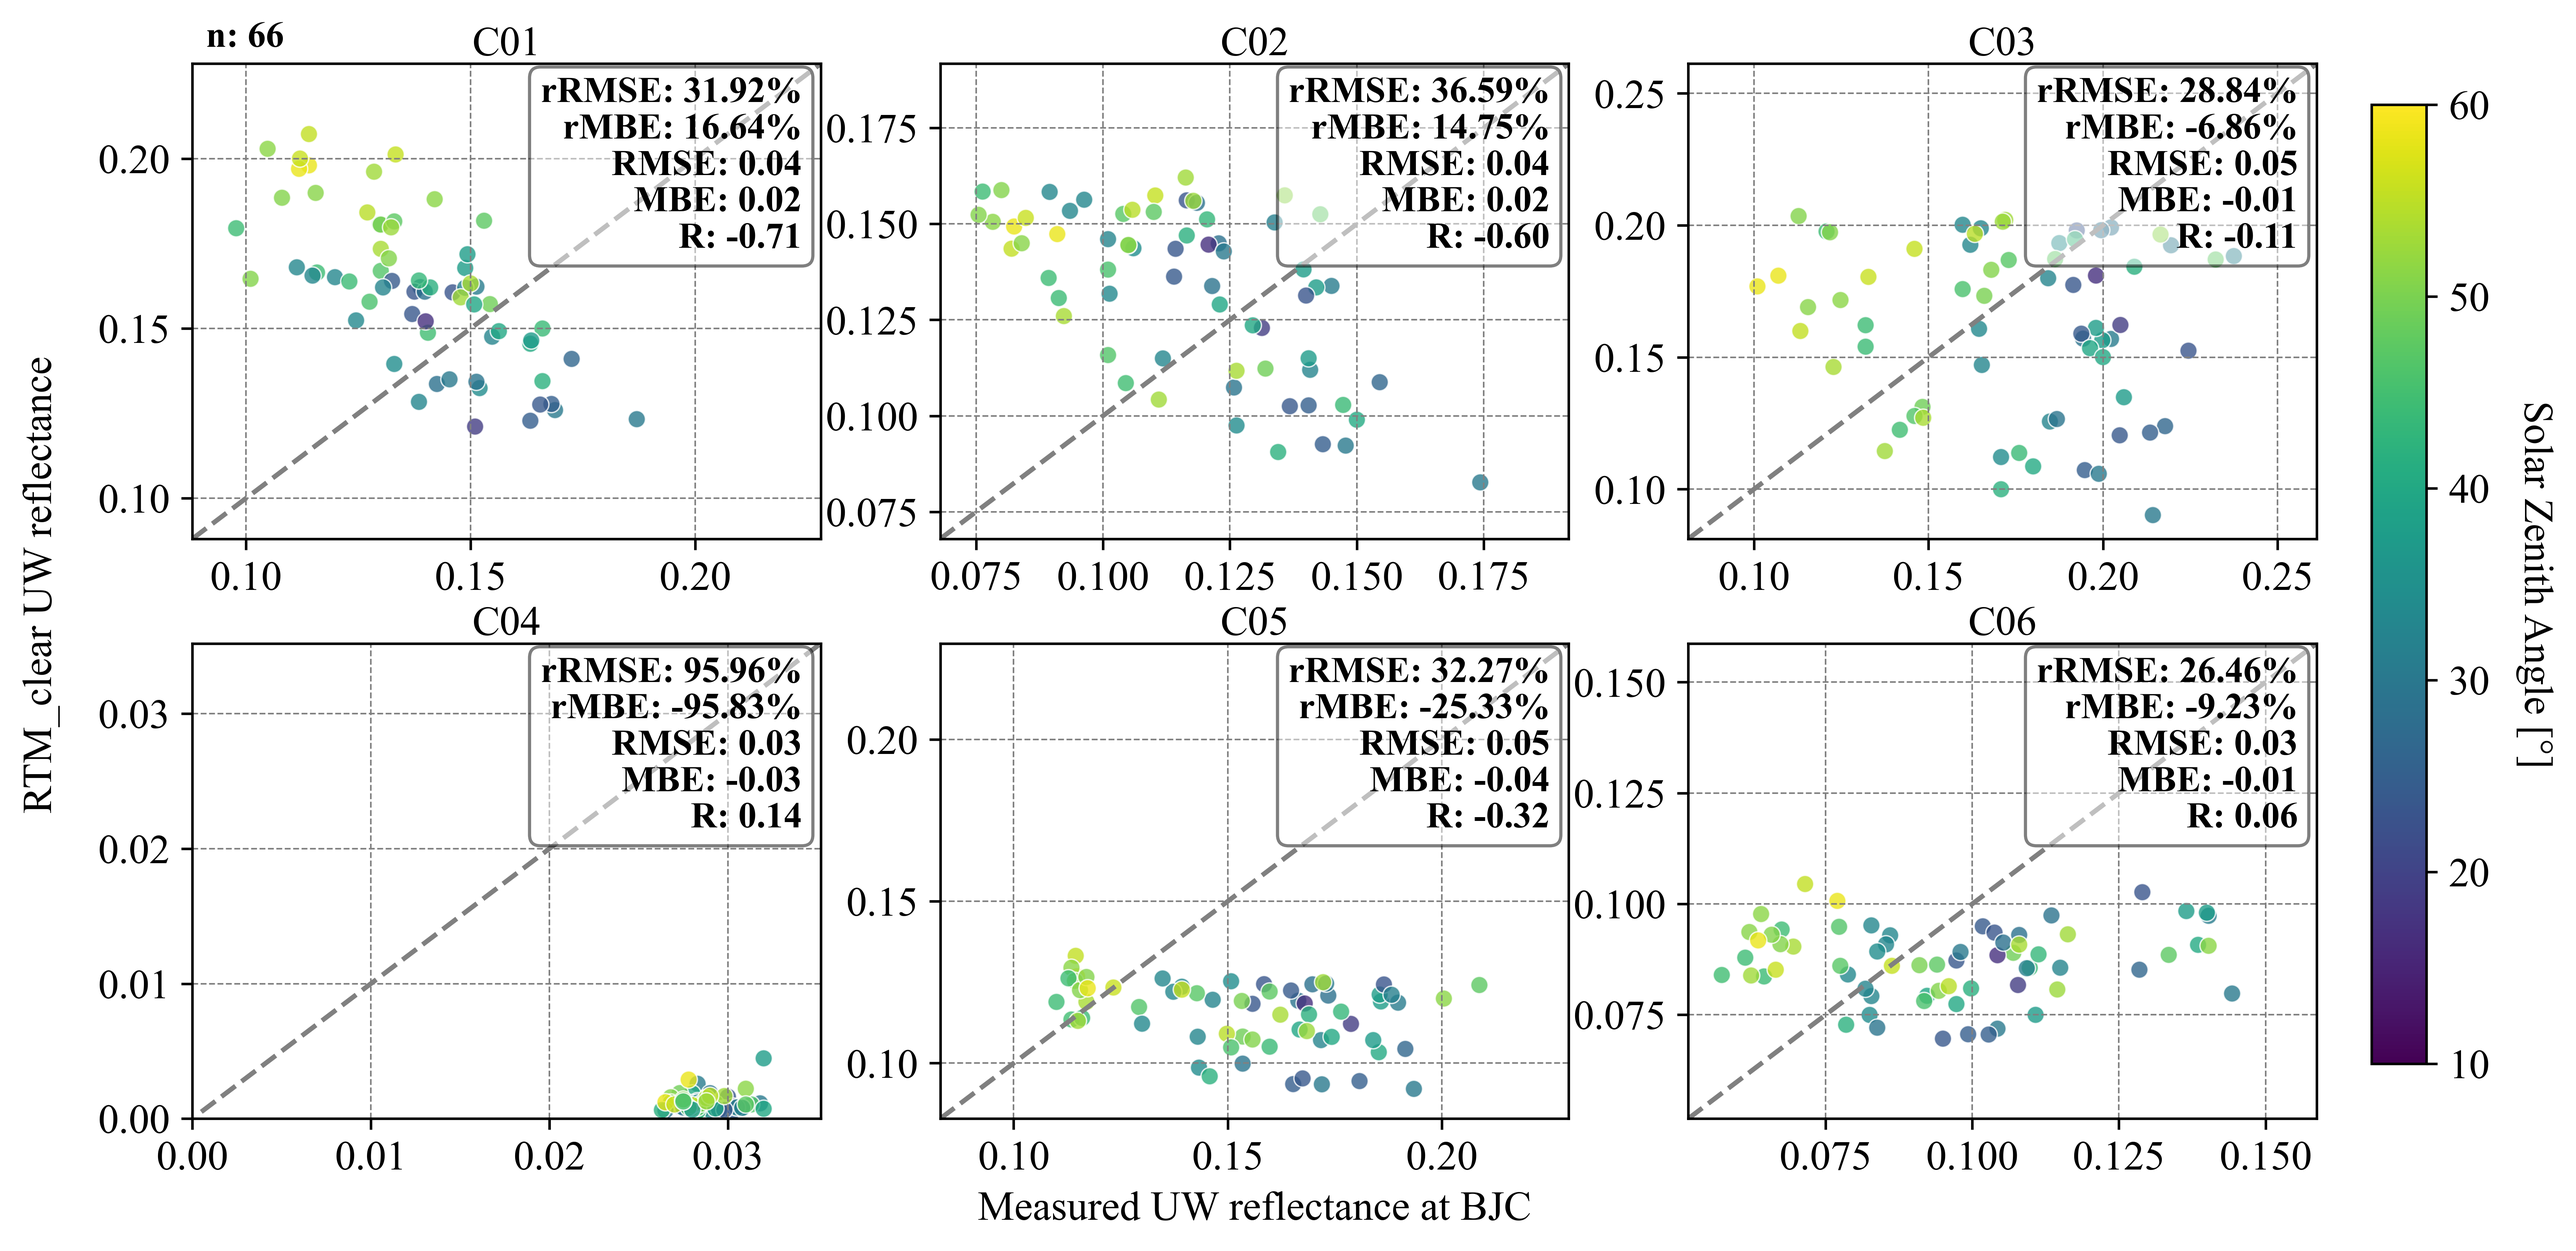
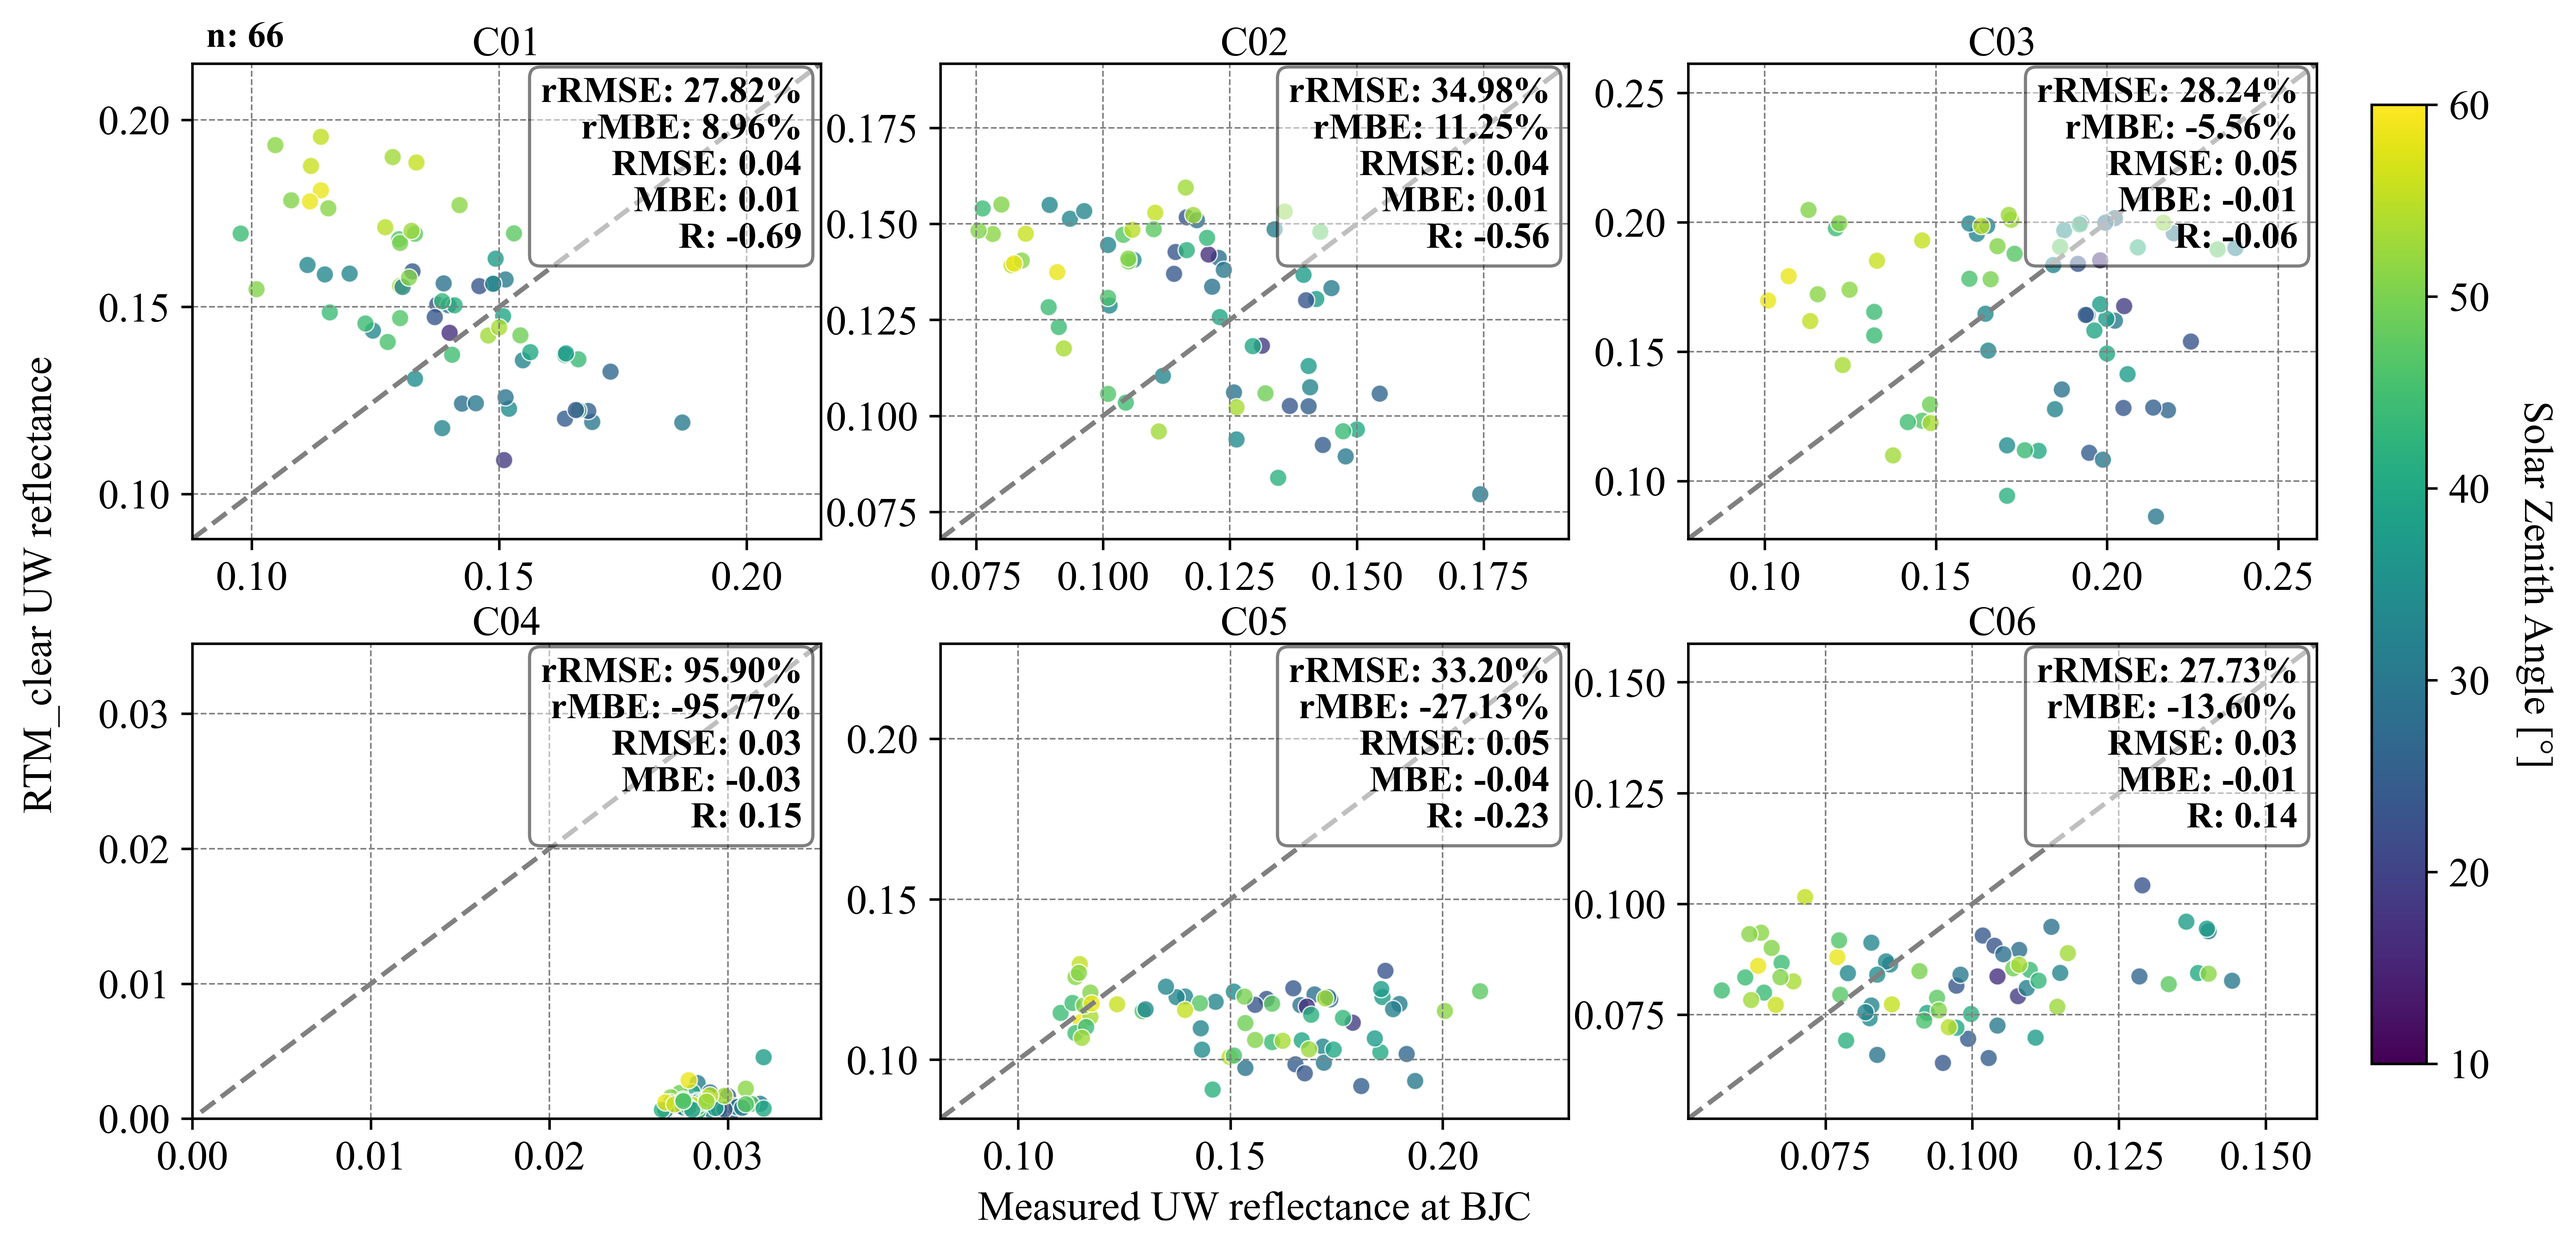
update the code, check result again

diff --git a/fun_nearealtime_RTM.py b/fun_nearealtime_RTM.py
@@ -282,10 +282,8 @@ def anti_iso_factor_1d(theta0, Mrxyz, local_zen, nu, F_dw_os, N_bundles):
         uw_rxyz = np.array(Mrxyz[k])
         if len(uw_rxyz) == 0:
             continue
-
         # Extract theta, phi (assuming you have your theta_phi function)
         theta_v, _ = theta_phi(uw_rxyz[:, 0], uw_rxyz[:, 1], uw_rxyz[:, 2])
-
         # Filter NaNs and append
         valid_theta = theta_v[~np.isnan(theta_v)]
         all_theta_v.extend(valid_theta)
@@ -296,15 +294,13 @@ def anti_iso_factor_1d(theta0, Mrxyz, local_zen, nu, F_dw_os, N_bundles):
     ths = np.deg2rad(theta_.T + d_th / 2)  # rad dw # division 2 for the 2sintcost
     ratio = 1
     H_theta *= ratio # np.trapz(F_dw_os,nu) * np.cos(theta0) / (len(nu)*1000) # Flux W/m2
-    Rad_theta = H_theta / (0.5 * np.sin(2 * ths[:-1]) * np.deg2rad(d_th))
-
-    F_up = np.sum(H_theta)
-    if F_up == 0:
+    # Rad is L(theta,phi) = Histogram / (2*pi *0.5 * sin(2*theta) * d_theta_rad)
+    L = H_theta / (np.sin(2 * ths[:-1]) * np.deg2rad(d_th)) # N_bin
+    # L_ios = sum(H_theta)/pi
+    L_iso = np.sum(H_theta) # N_uw_tot
+    if L_iso == 0:
         return np.nan  # Safety check if no photons made it to TOA
-
-    L_iso = F_up / np.pi  # W/m2/sr
-    A = Rad_theta/ L_iso
-    R_theta = A.T  #
+    R_theta = L / L_iso # N_bin/N_uw_tot
     # 3. Geometry Setup
     theta_centers = 0.5 * (bins_theta[:-1] + bins_theta[1:])
 
@@ -321,7 +317,7 @@ def anti_iso_factor_1d(theta0, Mrxyz, local_zen, nu, F_dw_os, N_bundles):
 
 
     # 5. Interpolate at the exact satellite viewing angle
-    R = np.interp(local_zen, theta_centers, R_theta) /(2*np.pi)
+    R = np.interp(local_zen, theta_centers, R_theta.T)
 
     return R
 
@@ -796,9 +792,9 @@ def get_rtm_output(Sun_Zen, local_zen, rela_azi,
     path1 = os.path.join(file_dir, f'RTM/fullspectrum/{meth}/', fileName1)
     fileName2 = "uwxyzr_{}_AOD={}_COD={}_th0={}_Ta={}_RH={}.npy".format(surface_v[0], AOD, COD, Sun_Zen, T_a, RH)
     path2 = os.path.join(file_dir, f'RTM/fullspectrum/{meth}/', fileName2)
-    # if not os.path.exists(path2):
-    #     print(path2)
-    run_RTM(Sun_Zen, COD, T_a, RH, df_albedo, surface, file_dir, '', bandmode, meth, N_bundles, AOD)
+    if not os.path.exists(path2):
+        print(path2)
+        run_RTM(Sun_Zen, COD, T_a, RH, df_albedo, surface, file_dir, '', bandmode, meth, N_bundles, AOD)
     # 1D output
     out1 = np.load(path1, allow_pickle=True).item()
     dsw = np.trapz(out1['F_dw'],nu)

diff --git a/main_SW_scope_nearealtime.py b/main_SW_scope_nearealtime.py
@@ -508,10 +508,10 @@ def compare_clear_dsw(site, sourcefile, meth='HG', sky="clear", file_dir=None, f
     sat_rad = df_combined[channels]
     rtm_rad = df_combined[rtm_channels]
     rtm_rad.columns = [col.replace('_rtm', '') for col in rtm_rad.columns]
-    # plot_data(sat_rad, rtm_rad, df_combined['Sun_Zen'], channels, VAR, CODfromwho, site, meth, figlabel)
-    # # dw
-    # plot_data_dw_clear(site_GHI, rtm_GHI, CODfromwho, df_combined['Sun_Zen'], site)
-    #                    CODfromwho, df_combined['Site_zen'][32:75], site, figlabel=figlabel, meth=meth)
+    plot_data(sat_rad, rtm_rad, df_combined['Sun_Zen'], channels, VAR, CODfromwho, site, meth, figlabel)
+    # dw
+    plot_data_dw_clear(site_GHI, rtm_GHI, CODfromwho, df_combined['Sun_Zen'], site)
+                       #CODfromwho, df_combined['Site_zen'][32:75], site, figlabel=figlabel, meth=meth)
 
     # plot_zen_uw(df_combined['Sun_Zen'], rtm_rad/sat_rad, channels, VAR, CODfromwho, meth='HG', figlabel=figlabel + '_Zen')
 
